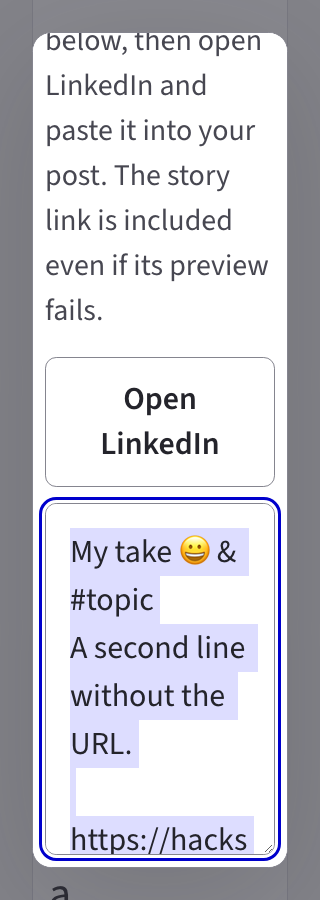
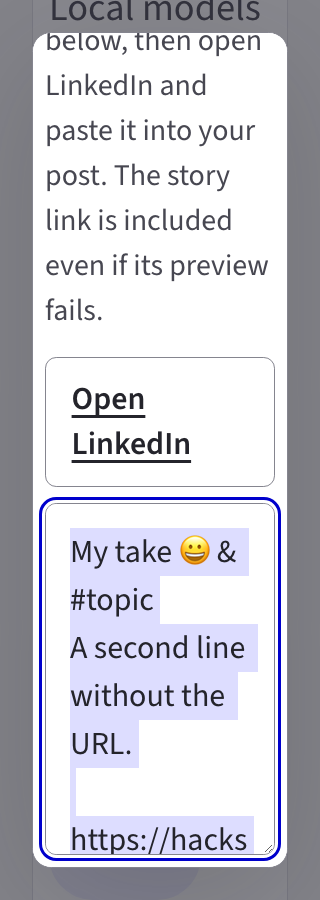
Use a native LinkedIn link and recognize punctuated story URLs

diff --git a/hacksnap/web/e2e/linkedin-share.spec.ts b/hacksnap/web/e2e/linkedin-share.spec.ts
@@ -24,11 +24,13 @@ for (const { width, textSize } of [
             },
           },
         });
-        window.open = (url, target, features) => {
-          document.documentElement.dataset.opened = JSON.stringify([url, target, features]);
-          return null;
-        };
       }, denied);
+      await context.route("https://www.linkedin.com/sharing/share-offsite/**", (route) =>
+        route.fulfill({
+          contentType: "text/html",
+          body: "<title>LinkedIn navigation fixture</title>",
+        }),
+      );
       await page.goto(storyPath);
       await page.evaluate((size) => {
         document.documentElement.style.fontSize = `${size}%`;
@@ -43,12 +45,12 @@ for (const { width, textSize } of [
       await draft.fill(edited);
       await dialog.getByRole("button", { name: "LinkedIn (copy post first)", exact: true }).click();
       const expected = `${edited}\n\nhttps://hacksnap.live${storyPath}`;
-      const open = dialog.getByRole("button", {
+      const open = dialog.getByRole("link", {
         name: "Open LinkedIn (opens in a new tab)",
         exact: true,
       });
       await expect(open).toBeVisible();
-      await expect(page.locator("html")).not.toHaveAttribute("data-opened");
+      expect(context.pages()).toHaveLength(1);
       if (denied) {
         const manual = dialog.getByRole("textbox", { name: "Text for manual copy" });
         await expect(manual).toHaveValue(expected);
@@ -75,11 +77,17 @@ for (const { width, textSize } of [
       await page.screenshot({
         path: testInfo.outputPath(`linkedin-${width}-${textSize}-${denied}.png`),
       });
+      await expect(open).toHaveAttribute("target", "_blank");
+      await expect(open).toHaveAttribute("rel", "noopener noreferrer");
+      const href = await open.getAttribute("href");
+      expect(new URL(href!).searchParams.get("url")).toBe(`https://hacksnap.live${storyPath}`);
+      expect(href).not.toContain(encodeURIComponent(edited));
+      const popupPromise = page.waitForEvent("popup");
       await open.click();
-      const opened = JSON.parse((await page.locator("html").getAttribute("data-opened"))!);
-      expect(new URL(opened[0]).searchParams.get("url")).toBe(`https://hacksnap.live${storyPath}`);
-      expect(opened.slice(1)).toEqual(["_blank", "noopener,noreferrer"]);
-      expect(opened[0]).not.toContain(encodeURIComponent(edited));
+      const popup = await popupPromise;
+      await expect(popup).toHaveURL(href!);
+      expect(await popup.evaluate(() => window.opener)).toBeNull();
+      await popup.close();
       await expect(draft).toHaveValue(edited);
       await draft.fill("A changed draft");
       await expect(open).toHaveCount(0);

diff --git a/hacksnap/web/app/share-links.tsx b/hacksnap/web/app/share-links.tsx
@@ -196,12 +196,16 @@ export function ShareLinks({
     openDestination(name, href);
   }
 
-  function openDestination(name: string, href: string) {
+  function trackDestination(name: string) {
     track("share_destination_select", {
       story_id: id,
       destination: name.toLowerCase(),
       placement,
     });
+  }
+
+  function openDestination(name: string, href: string) {
+    trackDestination(name);
     // Keep edited drafts out of DOM URLs and GA automatic outbound-link events.
     if (name === "Email") window.location.assign(href);
     else window.open(href, "_blank", "noopener,noreferrer");
@@ -365,14 +369,16 @@ export function ShareLinks({
             {feedback}
           </p>
           {linkedInHref !== null && (
-            <button
-              type="button"
+            <a
+              href={linkedInHref}
+              target="_blank"
+              rel="noopener noreferrer"
               className="share-copy-post"
               aria-label="Open LinkedIn (opens in a new tab)"
-              onClick={() => openDestination("LinkedIn", linkedInHref)}
+              onClick={() => trackDestination("LinkedIn")}
             >
               Open LinkedIn
-            </button>
+            </a>
           )}
           {manualText !== null && (
             <textarea

diff --git a/hacksnap/web/lib/share-text.ts b/hacksnap/web/lib/share-text.ts
@@ -16,7 +16,10 @@ export function suggestedPost(
 
 /** LinkedIn needs a pasteable URL even when the reader removes it from the draft. */
 export function linkedInPost(post: string, url: string): string {
-  if (post.split(/\s+/u).includes(url)) return post;
+  const links = post.matchAll(/(?:^|[\s<>"'“”‘’()[\]{},:;!?])(https?:\/\/[^\s<>"'“”‘’()[\]{}]+)/gu);
+  for (const [, link] of links) {
+    if (link.replace(/[.,!?;:…]+$/u, "") === url) return post;
+  }
   return post.trim() ? `${post}\n\n${url}` : url;
 }
 

diff --git a/docs/share-menu.md b/docs/share-menu.md
@@ -2,7 +2,7 @@
 
 The reusable Share dialog is available on feed rows and at both story-page Share actions. Copy link always uses the canonical story address, using its saved slug or numeric ID. The suggested post starts from the headline and takeaway; pending summaries get a complete readable draft. Readers can edit the post before copying or opening a text-capable destination.
 
-The initial destinations are X, LinkedIn and Email. X and Email receive the current edited text. The dialog uses the official twitter-text weighted count, including URL transformation, to prevent opening X when the draft exceeds 280 characters; readers can shorten the draft without changing the text available for copying or Email. LinkedIn’s share endpoint accepts only a URL and cannot prefill the draft text. Clicking LinkedIn first copies the edited post, adding the canonical story URL if it is missing, then shows an Open LinkedIn button and instructions to paste. If copying fails, the selected manual-copy field includes both the draft and URL. LinkedIn opens only on that second click, keeping navigation within a fresh user gesture and giving readers a chance to copy before leaving. Its preview receives the canonical URL; pasted text retains that URL even if LinkedIn cannot render a preview. Editing or resetting a draft clears the prepared LinkedIn step. Opening a destination is navigation to a compose/share surface, not a publication confirmation.
+The initial destinations are X, LinkedIn and Email. X and Email receive the current edited text. The dialog uses the official twitter-text weighted count, including URL transformation, to prevent opening X when the draft exceeds 280 characters; readers can shorten the draft without changing the text available for copying or Email. LinkedIn’s share endpoint accepts only a URL and cannot prefill the draft text. Clicking LinkedIn first copies the edited post, adding the canonical story URL if it is missing, then shows an Open LinkedIn link and instructions to paste. If copying fails, the selected manual-copy field includes both the draft and URL. LinkedIn opens only on that second click, keeping navigation within a fresh user gesture and giving readers a chance to copy before leaving. Its preview receives the canonical URL; pasted text retains that URL even if LinkedIn cannot render a preview. Editing or resetting a draft clears the prepared LinkedIn step. Opening a destination is navigation to a compose/share surface, not a publication confirmation.
 
 The feed initially mounts a small Share trigger. Opening it loads the post editor and X parser on demand; the first-open loading state still offers Copy link, LinkedIn, Email, and Copy suggested post. If the editor fails to load, those options remain available and the dialog offers a retry. Closing and reopening keeps any edits to the draft while the story component remains mounted.
 

diff --git a/docs/evaluations/linkedin-share/README.md b/docs/evaluations/linkedin-share/README.md
@@ -1,22 +1,24 @@
 # LinkedIn sharing verification
 
 The LinkedIn action prepares the edited draft for copying, includes the canonical
-story URL when absent, and then offers Open LinkedIn. Readers must paste into
+story URL when absent, and then offers an Open LinkedIn link. Readers must paste into
 LinkedIn’s composer. The URL-only sharing endpoint cannot populate draft text.
 
 Validation on Node 22.23.3:
 
-- PASS: `npm ci`, lint, format check, 414 Jest tests, TypeScript, and production build.
+- PASS: `npm ci`, lint, format check, 428 Jest tests, TypeScript, and production build.
 - PASS: 12 Chromium checks across the LinkedIn and existing share-dialog suites.
 - PASS: clipboard success and denial at 320px and 1280px, both 100% and 200% text.
 - PASS: missing URL restoration, exact Unicode edits, separate navigation gesture,
   canonical share URL, draft-change/reset invalidation, and no draft text in outbound URLs.
+- PASS: native link navigation to a new tab with no opener, retained selection analytics,
+  punctuation-delimited canonical URLs, and rejection of longer URL suffixes.
 - PASS: loading/failed-editor fallback and stale clipboard results after story replacement.
 - PASS: Axe WCAG A/AA checks, modal focus containment, close/Escape focus return,
   bounded dialog width, scrolling, and selected manual-copy text.
 
 Design review: the existing dialog, fonts, blue copy action, control sizes and
-spacing are retained. The new continuation button separates copying from leaving
+spacing are retained. The new continuation link separates copying from leaving
 the site and gives clipboard-denied readers a manual-copy step. No assets or
 animation were introduced. Narrow enlarged-text dialogs scroll vertically; the
 manual textarea retains all text and can be scrolled independently.
@@ -32,7 +34,7 @@ cached preview is current. The affected story URL was not supplied, so the repor
 preview error was not reproduced or claimed fixed. Pasting the prepared text keeps
 the URL available even when the preview fails.
 
-Browser tests stub clipboard results and outbound navigation. They do not sign
+Browser tests stub clipboard results and serve a local fixture for the native LinkedIn navigation. They do not sign
 into LinkedIn or publish a post. LinkedIn documents the manual paste flow in its
 [sharing guidance](https://www.linkedin.com/help/linkedin/answer/a525301), and its
 [share plugin](https://learn.microsoft.com/en-gb/linkedin/consumer/integrations/self-serve/plugins/share-plugin)
